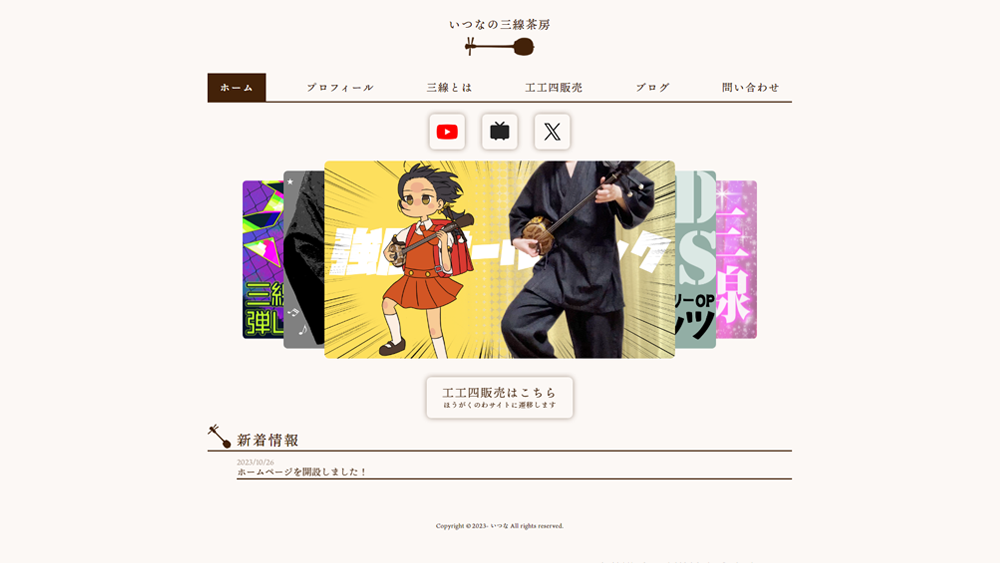
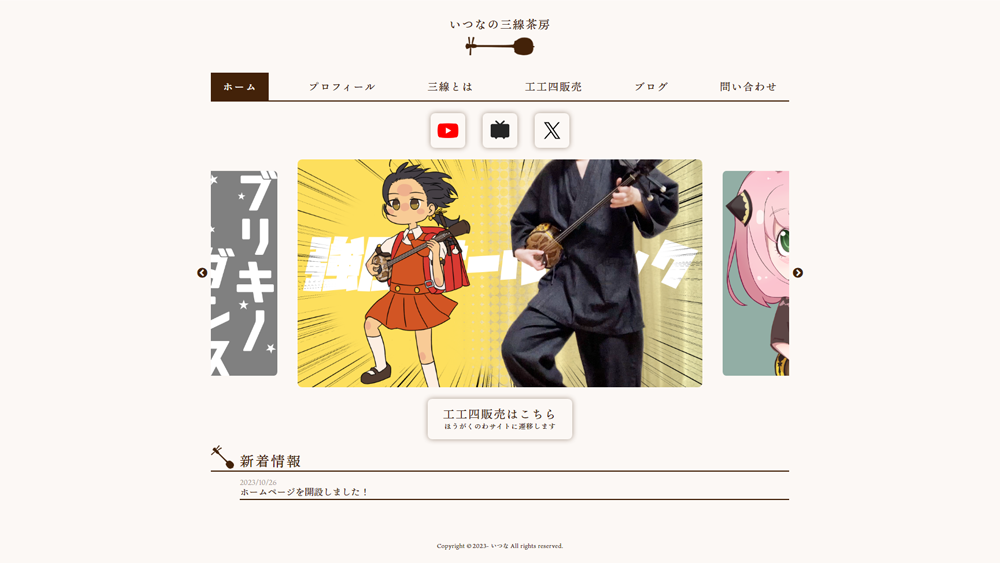
Add files via upload

diff --git a/web/sanshin-sabou/sanshin-sabou.html b/web/sanshin-sabou/sanshin-sabou.html
@@ -64,8 +64,8 @@
 		</div>
 		
 		<div class="description">
-			<p>以前からブログのようなものがほしいと思っていたため、Web制作を学んだのを機に自分の音楽活動用のWebページを作りました。このサイトは、トップページのスライドショーを自力で、CSSだけで記述することを目標に制作しました。<br>
-			三線の温かみのある雰囲気を感じられるような配色にし、シンプルで分かりやすいデザインを心がけました。YouTubeの視聴者層には海外の方もいるので、そのうち英語にも対応したサイトにしようと考えています。
+			<p>以前からブログのようなものがほしいと思っていたため、Web制作を学んだのを機に自分の音楽活動用のWebページを作りました。このサイトはトップページにカルーセルスライドを実装することと、ブログ記事一覧をカテゴリや月別にフィルターできる機能を実装することを目標に制作しました。まだブログの記事数は少ないですが、フィルター機能は既に使えるようになっています。<br>
+			デザイン面では、三線の温かみのある雰囲気を感じられるような配色にし、シンプルで分かりやすいサイトになるよう心がけました。YouTubeの視聴者層には海外の方もいるので、そのうち英語にも対応したサイトにしようと考えています。
 			</p>
 			
 			

diff --git a/style.css b/style.css
@@ -381,14 +381,14 @@ header:hover{
 
 .released{
 	color:#fff;
-	padding:5px 7px 3px 5px;
+	padding:5px 5px 3px 5px;
 	background-color:#C596EE;
 }
 
 .study{
 	color:#C596EE;
 	background-color:#fff;
-	padding:3px 5px 1px 3px;
+	padding:3px 3px 1px 3px;
 	border:2px solid #C596EE;
 }
 
@@ -425,7 +425,6 @@ header:hover{
 .study-inv{
 	color:#FFF;
 	background-color:#C596EE;;
-	padding:3px 5px 1px 3px;
 	border:2px solid #fff;
 	transition:all 0.2s;
 }
